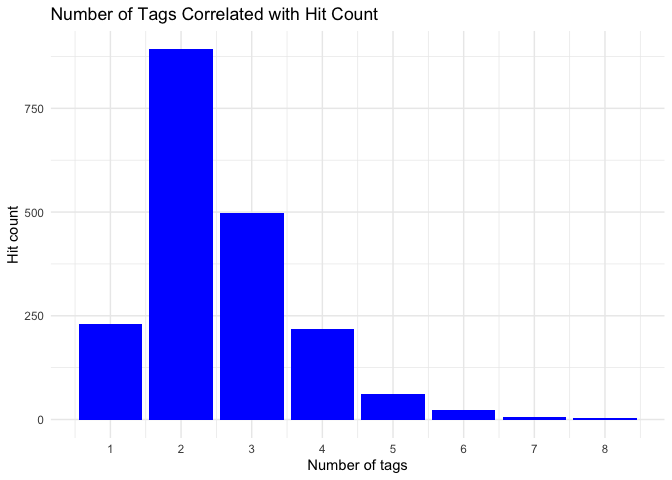
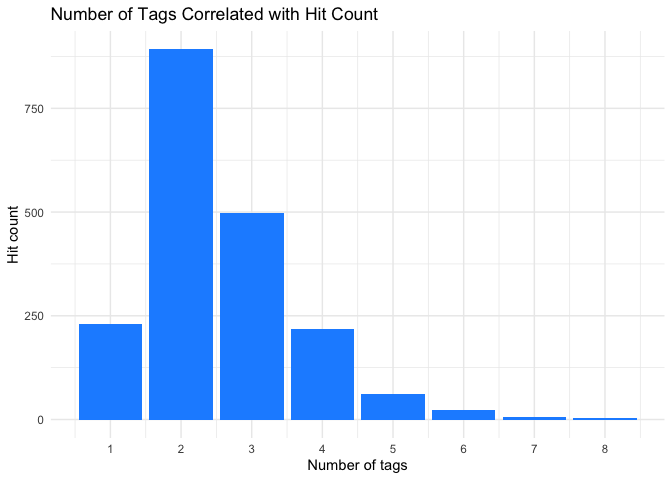
Fixed titles, wording, added section markers

Changed region(s): [[0.0938, 0.0938, 0.8438, 0.875], [0.875, 0.8438, 0.9375, 0.875]]

diff --git a/Data-exploration.md b/Data-exploration.md
@@ -1,16 +1,20 @@
-Initial data exploration
+CoStar Data Analysis
 ================
 Yi Chen, Daniel Hwang, Margaret Reed
 10/12/19
+
+## Reading the Data
 
 ``` r
 data <- read.csv("data.csv") %>%
   as_tibble()
 ```
 
+## Preliminary Cleanup
+
 We needed to clean the data a little. We did so by coding the date
-variable as a date using the lubridate package. We also did some
-reordering and converting of times for ease of analysis.
+variable as a date using the `lubridate` package. We also resorted and
+converted other values for ease of analysis.
 
 ``` r
 data <- data %>%
@@ -26,32 +30,44 @@ data <- data %>%
          Body = as.character(Body))
 ```
 
-Here is our first exploratory visualization, looking at the distribution
-of the dates each story was created.
+## Visualizations
+
+### Distributions
+
+Below is our first visualization, showing the distribution of the
+creation dates of the stories.
 
 ``` r
 data %>%
   ggplot(aes(x = Date)) +
-  geom_histogram(bins = 100) +
-  labs(x = "Date", y = "Number of stories", title = "Initial date distribution")
+  geom_histogram(bins = 100, fill = "dodgerblue") +
+  labs(x = "Date", y = "Number of stories", title = "Distribution of Creation Dates of Stories") +
+  theme_minimal()
 ```
 
 ![](Data-exploration_files/figure-gfm/initial-date-viz-1.png)<!-- -->
 
-We decided we wanted to look more closely at the dates in the latter
-half of 2018.
+Most of the stories seemed to be written in the latter half of 2018,
+therefore we should look more closely at these dates.
 
 ``` r
 data %>%
   filter(Date >= "2018-06-01") %>%
   ggplot(aes(x = Date)) +
-  geom_histogram(bins = 100) +
-  labs(x = "Date", y = "Number of stories", title = "Subset date distribution")
+  geom_histogram(bins = 100, fill = "dodgerblue") +
+  labs(x = "Date", y = "Number of stories", title = "Distribution of Creation Dates after June 2018") +
+  theme_minimal()
 ```
 
 ![](Data-exploration_files/figure-gfm/subset-date-viz-1.png)<!-- -->
 
-Here is a visualization of the most common words in the titles overall.
+The above data shows a cyclic weekly trend in the number of stories
+created each week.
+
+### Most Common Words
+
+Here is a visualization of the most common words in the stories’ titles
+overall.
 
 ``` r
 textFreq <- data %>%
@@ -69,13 +85,17 @@ textFreq$word <- factor(textFreq$word, levels = textFreq$word[order(desc((textFr
 textFreq %>%
   filter(n>= 75) %>%
   ggplot(aes(x = word, y = n)) +
-    geom_col() +
-  labs(x = "Words", y = "Frequency", title = "Most frequent words in Titles")
+    geom_col(fill = "dodgerblue") +
+  labs(x = "Words", y = "Frequency", title = "Most Frequent Words in Titles") +
+  theme_minimal()
 ```
 
 ![](Data-exploration_files/figure-gfm/word-freq-viz-1.png)<!-- -->
 
-Here is a visualization of the most common words in summaries overall.
+“Office” appears to be the most common word in all document titles.
+
+Here is a visualization of the most common words in the summaries
+overall.
 
 ``` r
 textFreq <- data %>%
@@ -93,40 +113,20 @@ textFreq$word <- factor(textFreq$word, levels = textFreq$word[order(desc((textFr
 textFreq %>%
   filter(n>= 150) %>%
   ggplot(aes(x = word, y = n)) +
-    geom_col() +
-  labs(x = "Words", y = "Frequency", title = "Most frequent words in Summaries")
+    geom_col(fill = "dodgerblue") +
+  labs(x = "Words", y = "Frequency", title = "Most Frequent Words in Summaries") +
+  theme_minimal()
 ```
 
 ![](Data-exploration_files/figure-gfm/word-freq-sum-1.png)<!-- -->
 
-Here we are sub-setting the data by countries.
+“Market” appears to be the most common word in the document summaries.
 
-``` r
-US <- subset(data, Country_USA == 1)
-GB <- subset(data, Country_GBR == 1)
-Canada <- subset(data, Country_CAN == 1)
-
-US %>%
-  select(Title, Hits)
-```
-
-    ## # A tibble: 1,251 x 2
-    ##    Title                                                               Hits
-    ##    <chr>                                                              <int>
-    ##  1 Paramount Transportation Leases 136,000-SF Cheverly Facility           0
-    ##  2 Newmark Knight Frank Boosts National Appraisal Platform with Deal…    32
-    ##  3 Amazon Outgrows Seattle: Opens Search for Second HQ City in North…    71
-    ##  4 For Amazon’s Second HQ’s Search, Bigger May Be Better                601
-    ##  5 Last Call for Amazon HQ2: Today is Deadline for Communities to Su…  1379
-    ##  6 Hundreds of Localities Fortify Their Amazon HQ2 Bids with Hefty F…  1623
-    ##  7 Implications of a Tight Office Market and Amazon’s HQ2                27
-    ##  8 Amazon Narrows HQ2 Search to 20 Markets                             5149
-    ##  9 L.A. Officials ‘Thrilled’ by Amazon HQ2 Short List                   275
-    ## 10 Denver Makes Shortlist for Amazon HQ2                                134
-    ## # … with 1,241 more rows
+### Tags
 
 We decided to add up the number of tags each story had associated with
-it.
+it. This took a little bit of work because each tag had their own column
+with boolean values. They had to be gathered into a single column.
 
 ``` r
 # condenses tags into one tags column and their boolean into hasTag
@@ -167,7 +167,12 @@ data <- data %>%
 
     ## Joining, by = "StoryID"
 
-Here is a plot of the number of tags associated with a story and how
+Since tags are one of the main drivers of webpage hits, we thought it
+would be interesting to plot the number of tags each story has against
+the number of hits the story got. We hypothesized that more tags would
+lead to more hits on the story.
+
+Below is a plot of the number of tags associated with each story and how
 many hits it got.
 
 ``` r
@@ -175,16 +180,21 @@ many hits it got.
 data %>%
   select(Hits, numTags) %>%
   ggplot(aes(numTags)) + 
-  geom_bar(fill = "Blue") + 
+  geom_bar(fill = "dodgerblue") + 
   scale_x_continuous(name = "Number of tags", breaks = seq(0, 8, 1)) +
   scale_y_continuous(name = "Hit count") + 
   theme_minimal() + 
-  labs(title = "Number of Tags Correlated with Hit Count")
+  labs(title = "Number of Tags Correlated with Hit Count") 
 ```
 
 ![](Data-exploration_files/figure-gfm/tags_plots-1.png)<!-- -->
 
-We also decided to visualize the frequency of tags in general.
+As it turns out, stories with 2 tags received the most hits. This result
+is slightly unexpected.
+
+### Tag Frequency
+
+We also decided to visualize the top 10 most frequently occurring tags.
 
 ``` r
 tagPop <- allTags %>%
@@ -205,17 +215,23 @@ tagPop %>%
   arrange(desc(total)) %>%
   slice(0:10) %>%
   ggplot(aes(x = reorder(tags, -total), y = total)) +
-  geom_col(fill = "Blue") + 
+  geom_col(fill = "dodgerblue") + 
   scale_x_discrete(name = "Top 10 tags") +
-  scale_y_continuous(name = "# of stories with tag") + 
+  scale_y_continuous(name = "Number of occurances") + 
   theme_minimal() + 
   labs(title = "Top 10 Most Popular Tags")
 ```
 
 ![](Data-exploration_files/figure-gfm/tag-pop-viz-1.png)<!-- -->
 
-Here is a very basic multivariate linear regression model just for
-fun:’)
+The “National” tag seems to be the most popular.
+
+## Analysis
+
+### Modeling
+
+Below is a very basic multivariate linear regression model: most of tags
+are involved in the model except for a few very infrequent ones.
 
 ``` r
 data1 <- data %>%
@@ -251,7 +267,10 @@ glance(first_model)
     ## 1     0.475         0.469  242.      72.0 2.49e-246    25 -13344. 26740.
     ## # … with 3 more variables: BIC <dbl>, deviance <dbl>, df.residual <int>
 
-Here we also did a little sentiment analysis for fun :’’)
+### Sentiment Analysis
+
+Below is a simple sentiment analysis performed on the titles of the
+stories using the nrc lexicon.
 
 ``` r
 textDataFreq <- data %>%
@@ -270,8 +289,11 @@ textDataFreq$sentiment <- factor(textDataFreq$sentiment, levels = textDataFreq$s
 
 textDataFreq %>%
   ggplot(aes(x = sentiment, y = totSents)) +
-  geom_col() + 
-  labs(x = "sentiment", y = "frequency", title = "Frequency of sentiments associated with words in titles", subtitle = "Using the 'nrc' lexicon")
+  geom_col(fill = "dodgerblue") + 
+  labs(x = "sentiment", y = "frequency", title = "Frequency of Sentiments Associated with Words in Titles", subtitle = "Using the 'nrc' lexicon") + 
+  theme_minimal()
 ```
 
 ![](Data-exploration_files/figure-gfm/adding-sentiment-analysis-1.png)<!-- -->
+
+Most of the titles seem to be positive.
